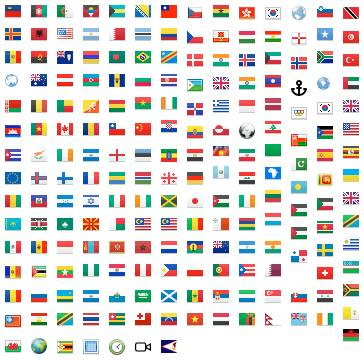
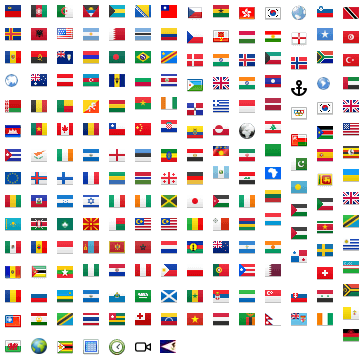
Instead of language abbreviation put the flag of selected language in submenu.

diff --git a/skins/loungebet.com/css/skin.css b/skins/loungebet.com/css/skin.css
@@ -44521,6 +44521,10 @@ top-game-block {
     float: left;
 }
 
+.settings-include-contain .nav-open-view-contain .drop-nav-new-b .drop-items-contain-b > ul > li {
+    padding: 0 10px 0 12px;
+}
+
 .settings-icon-contain.clock-set-b {
     width: auto;
     text-align: left;
@@ -44552,7 +44556,7 @@ top-game-block {
     z-index: 55;
     text-align: left;
     display: none;
-    width: 188px;
+    width: 180px;
 }
 
 .separator-contain-nav.user-nav-view-b > .nav-open-view-contain {
@@ -44860,41 +44864,43 @@ top-game-block {
     /*background: #aaa9a1;*/
     /*z-index: 22;*/
 /*}*/
-.leng-b + .nav-open-view-contain .drop-nav-new-b > .drop-items-contain-b > ul > li:before {
+.settings-icon-contain .lang_switch:before {
+    position: relative;
+    left: 0;
+    top: 4px;
+}
+
+.lang_switch:before {
     content: "";
     display: block;
     position: absolute;
     left: 10px;
-    top: 11px;
+    top: 9px;
     z-index: 34;
     width: 16px;
     height: 13px;
     border-radius: 0;
 }
-.leng-b + .nav-open-view-contain .drop-nav-new-b > .drop-items-contain-b > ul > li:first-of-type:before {
+.por:before {
     background: url(../../../images/flags.png?20160607111144) no-repeat -135px -51px;
 }
-.leng-b + .nav-open-view-contain .drop-nav-new-b > .drop-items-contain-b > ul > li:nth-of-type(2):before {
+.eng:before {
     background: url(../../../images/flags.png?20160607111144) no-repeat -109px -149px;
 }
-.leng-b + .nav-open-view-contain .drop-nav-new-b > .drop-items-contain-b > ul > li:nth-of-type(3):before {
+.spa:before {
     background: url(../../../images/flags.png?20160607111144) no-repeat -317px -149px;
 }
-.leng-b + .nav-open-view-contain .drop-nav-new-b > .drop-items-contain-b > ul > li:nth-of-type(4):before {
+.ita:before {
     background: url(../../../images/flags.png?20160607111144) no-repeat -109px -195px;
 }
-.leng-b + .nav-open-view-contain .drop-nav-new-b > .drop-items-contain-b > ul > li:nth-of-type(5):before {
+.rus:before {
     background: url(../../../images/flags.png?20160607111144) no-repeat -31px -290px;
 }
-.leng-b + .nav-open-view-contain .drop-nav-new-b > .drop-items-contain-b > ul > li:nth-of-type(6):before {
+.tur:before {
     background: url(../../../images/flags.png?20160607111144) no-repeat -343px -54px;
 }
-.leng-b + .nav-open-view-contain .drop-nav-new-b > .drop-items-contain-b > ul > li:nth-of-type(7):before {
+.chi:before {
     background: url(../../../images/flags.png?20160607111144) no-repeat -135px -123px;
-}
-
-.drop-items-contain-b > ul > li.active:before {
-    background: #fff;
 }
 
 .drop-items-contain-b > ul > li.active {
@@ -62256,3 +62262,4 @@ view-v3 .game-score-multiset ul.title li, .statistic-view-v3 .live-game-containe
         box-shadow: none;
     }
 
+}

diff --git a/templates/sport/toptab.html b/templates/sport/toptab.html
@@ -49,7 +49,7 @@
              ng-show="(conf.availableLanguages|count) > 1"
              hide-on-click state-flag-var="headerVersion2Icons.languageIsToggled">
             <div class="settings-icon-contain leng-b selected-{{env.lang}}" ng-click="headerVersion2Icons.languageIsToggled = !headerVersion2Icons.languageIsToggled"  title="Languages">
-                <span>{{conf.availableLanguages[env.lang].short}}</span>
+              <span class="lang_switch {{conf.availableLanguages[env.lang].code}}" title="lang.full|translate"></span>
             </div>
 
             <div class="nav-open-view-contain">
@@ -62,7 +62,10 @@
                             <div class="drop-items-contain-b">
                                 <ul>
                                     <li ng-repeat="lang in sortedAvailableLanguages track by lang.code"
-                                        ng-click="selectLanguage(lang.code)" ng-class="{'active': lang.code === env.lang}" class="{{lang.code}}">{{ lang.full|translate }}</li>
+                                        ng-click="selectLanguage(lang.code)" ng-class="{'active': lang.code === env.lang}" class="lang_switch {{lang.code}}">
+                                        <span class="flag-view-v3 flag-{{::region.alias | removeUselessSymbolsByRegexp: '[, ]+': 'g'}}"></span>
+                                        {{ lang.full|translate }}
+                                    </li>
                                 </ul>
                             </div>
                         </div>
